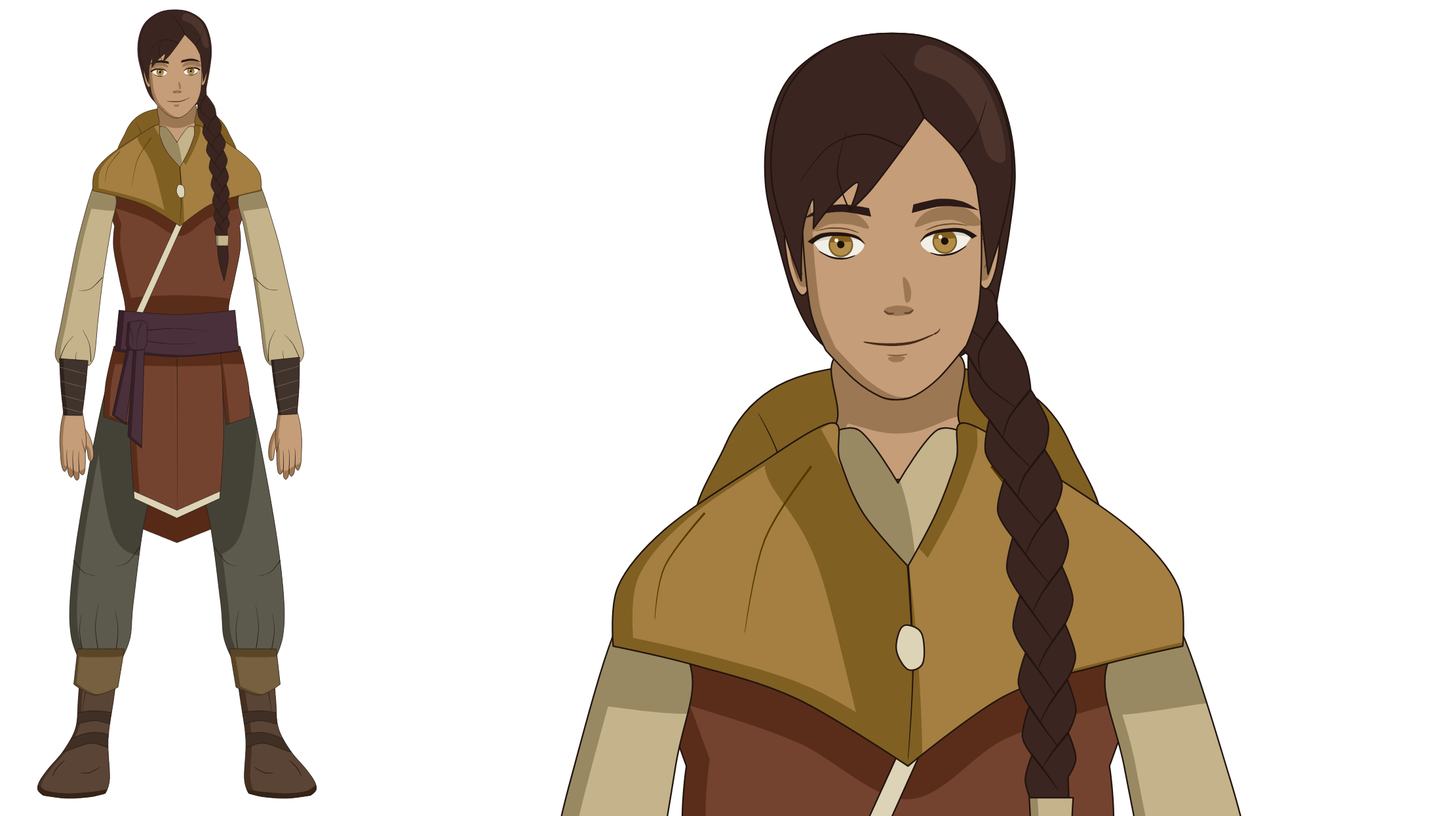
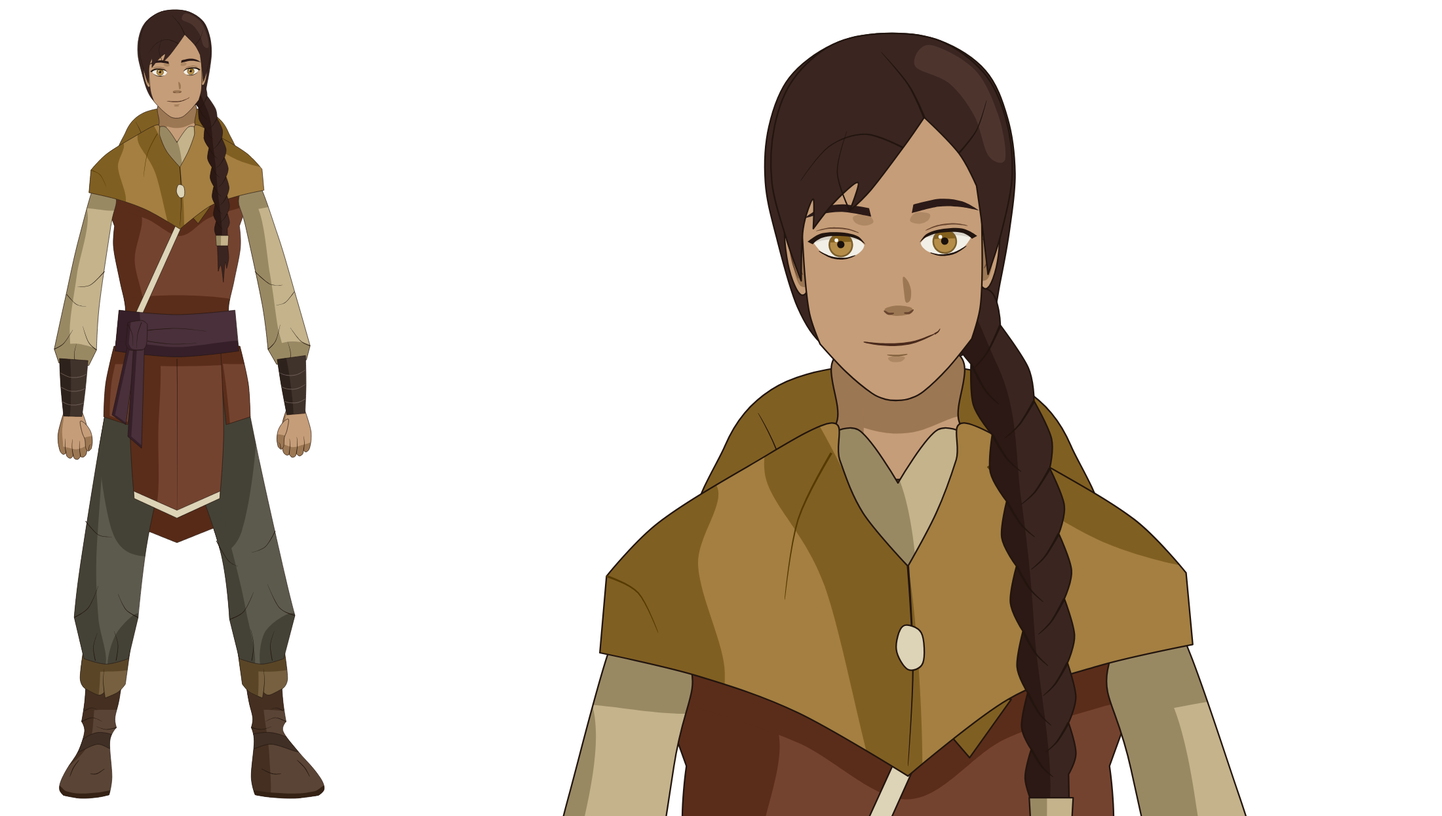
Original character: curled hands, angular garments, plane shadows, asymmetric pose
Hands hang as loose fists; mantle, sleeves and trousers use straight
runs and corners; shadows are designed planes instead of an offset rim;
legs, boots and arms are no longer mirror copies; jaw has a corner;
eye-socket planes are small; boots bunch at the ankle; braid lines stop
near the middle. Guide updated to match.

Claude-Session: https://claude.ai/code/session_01XqGJvDTZdXqVvM8gmmCaHx

diff --git a/character_refs/original/naori.js b/character_refs/original/naori.js
@@ -112,18 +112,19 @@ const NAORI = (() => {
   }
   function neck() {
     form([[-0.175, 0.86], [0.175, 0.86], [0.182, 1.06], [0.25, 1.22], [-0.25, 1.22], [-0.182, 1.06]], P.skin,
-      { cres: [0.035, 0], sh: [[[-0.3, 0.8], [0.3, 0.8], [0.3, 0.99], [0.15, 1.06], [0.03, 1.1], [-0.1, 1.085], [-0.3, 1.0]]] });
+      { sh: [[[-0.3, 0.8], [0.3, 0.8], [0.3, 0.99], [0.15, 1.06], [0.03, 1.1], [-0.1, 1.085], [-0.3, 1.0]], [[-0.3, 0.9], [-0.12, 0.9], [-0.13, 1.3], [-0.3, 1.3]]] });
     // collar of the under-tunic inside the mantle's opening
     form([[-0.235, 1.12, 1], [-0.12, 1.09], [0.0, 1.25, 1], [0.12, 1.09], [0.235, 1.12, 1], [0.03, 1.66, 1]], P.tunic, { sh: [[[-0.3, 1.0], [0.0, 1.23], [0.03, 1.75], [-0.3, 1.75]]] });
   }
   function head() {
     both(ear);
-    // face: wide across the cheekbones, a long nearly straight run down to a soft jaw corner, small rounded chin
-    const half = [[198.5, 10], [226, 12.5], [243, 29], [247.5, 58], [247, 92], [246, 120], [243.5, 143], [236.5, 162, 1], [221, 179], [208, 188], [198.5, 190]].map(hp);
-    form(sym(half), P.skin, { cres: [0.03, -0.006], sh: [
-      HP([[150, 96], [158, 88], [170, 86.5], [181, 90], [186, 97], [176, 94.5], [165, 94], [156, 97.5]]),          // eye sockets: the planes between brow and lid
-      HP([[247, 96], [239, 88], [227, 86.5], [216, 90], [211, 97], [221, 94.5], [232, 94], [241, 97.5]]),
-      HP([[194, 167.2], [198.5, 166.4], [203, 167.2], [201, 169.4], [196, 169.4]]) ] });                                  // under the lower lip
+    // face: wide across the cheekbones, a straight run down to a jaw corner below the ear, a second straight run to a small blunt chin
+    const half = [[198.5, 10], [226, 12.5], [243, 29], [247.5, 58], [247.2, 92], [246.4, 122], [244.6, 142], [239.5, 158.5, 1], [226, 174], [212.5, 186], [205, 189.6], [198.5, 190.4]].map(hp);
+    const soft = shade(P.skin, 0.55);
+    form(sym(half), P.skin, { over: [
+      { color: soft, pts: HP([[178, 90.2], [185.5, 89.4], [188.6, 93.6], [184, 95.4], [179, 93.8]]) },                  // eye sockets: a small plane under the inner end of each brow
+      { color: soft, pts: HP([[219, 90.2], [211.5, 89.4], [208.4, 93.6], [213, 95.4], [218, 93.8]]) },
+      { color: soft, pts: HP([[194, 167.2], [198.5, 166.4], [203, 167.2], [201, 169.4], [196, 169.4]]) } ] });          // under the lower lip
     face();
   }
   function face() {
@@ -165,45 +166,49 @@ const NAORI = (() => {
     tl(HP([[236, 58], [246, 46], [252, 30]]), 1.0 * K, P.ink, 'out');
     tl(HP([[176, 87], [170, 66], [176, 44]]), 0.9 * K, P.ink, 'out');
   }
-  function braid() {        // one silhouette with a zig-zag edge; the plaits are interior lines only
+  function braid() {        // one silhouette with a zig-zag edge; the plaits are short interior lines that stop near the middle
     const A = [[0.19, 0.66, 0.085], [0.325, 0.97, 0.105], [0.39, 1.24, 0.102], [0.425, 1.5, 0.096], [0.445, 1.76, 0.088], [0.455, 2.0, 0.08], [0.46, 2.2, 0.072]];
     const at = t => { const i = Math.min(A.length - 2, Math.floor(t)), f = t - i; return A[i].map((v, k) => v + (A[i + 1][k] - v) * f); };
-    const N = 9, Lf = [], Rt = [], inner = [];
+    const N = 8, Lf = [], Rt = [], inner = [];
     for (let i = 0; i < N; i++) { const t0 = i / N * (A.length - 1), t1 = (i + 0.5) / N * (A.length - 1), t2 = (i + 1) / N * (A.length - 1), a = at(t0), m = at(t1), b = at(t2);
-      Lf.push([a[0] - a[2] * 0.7, a[1], 1], [m[0] - m[2] * 1.02, m[1] + 0.01]);
-      Rt.push([a[0] + a[2] * 1.0, a[1] + 0.01], [m[0] + m[2] * 0.7, m[1], 1]);
-      inner.push([[a[0] - a[2] * 0.7, a[1]], [a[0] - a[2] * 0.1, a[1] + (m[1] - a[1]) * 0.9], [m[0] + m[2] * 0.3, m[1] + (b[1] - m[1]) * 0.6]]);
-      inner.push([[m[0] + m[2] * 0.7, m[1]], [m[0] + m[2] * 0.1, m[1] + (b[1] - m[1]) * 0.9], [b[0] - b[2] * 0.3, b[1] + (b[1] - m[1]) * 0.6]]); }
+      Lf.push([a[0] - a[2] * 0.72, a[1], 1], [m[0] - m[2] * 1.02, m[1] + 0.012]);
+      Rt.push([a[0] + a[2] * 1.0, a[1] + 0.012], [m[0] + m[2] * 0.72, m[1], 1]);
+      inner.push([[a[0] - a[2] * 0.72, a[1]], [a[0] - a[2] * 0.3, a[1] + (m[1] - a[1]) * 0.7], [a[0] + a[2] * 0.12, m[1] + (b[1] - m[1]) * 0.1]]);
+      inner.push([[m[0] + m[2] * 0.72, m[1]], [m[0] + m[2] * 0.3, m[1] + (b[1] - m[1]) * 0.7], [m[0] - m[2] * 0.12, b[1] + (b[1] - m[1]) * 0.1]]); }
     const e = at(A.length - 1);
-    form([[e[0] - 0.05, e[1] + 0.07, 1], [e[0] + 0.05, e[1] + 0.07, 1], [e[0] + 0.062, e[1] + 0.24], [e[0] + 0.02, e[1] + 0.46, 1], [e[0] - 0.035, e[1] + 0.25]], P.hair, {});      // loose end, to a point
-    form([...Lf, [e[0] - e[2] * 0.75, e[1] + 0.02, 1], [e[0] + e[2] * 0.75, e[1] + 0.02, 1], ...Rt.reverse()], P.hair, { inside: () => { for (const q of inner.slice(0, -1)) tl(q, 1.6 * LW, P.ink, 'out'); } });
-    form([[e[0] - 0.066, e[1] - 0.005, 1], [e[0] + 0.066, e[1] - 0.005, 1], [e[0] + 0.06, e[1] + 0.1, 1], [e[0] - 0.06, e[1] + 0.1, 1]], P.tie, { cres: [0.025, 0] });
+    form([[e[0] - 0.05, e[1] + 0.07, 1], [e[0] + 0.05, e[1] + 0.07, 1], [e[0] + 0.066, e[1] + 0.22], [e[0] + 0.045, e[1] + 0.33, 1], [e[0] + 0.03, e[1] + 0.27], [e[0] + 0.012, e[1] + 0.47, 1], [e[0] - 0.012, e[1] + 0.3], [e[0] - 0.04, e[1] + 0.36, 1], [e[0] - 0.045, e[1] + 0.2]], P.hair, {});      // loose end, in points
+    form([...Lf, [e[0] - e[2] * 0.75, e[1] + 0.02, 1], [e[0] + e[2] * 0.75, e[1] + 0.02, 1], ...Rt.reverse()], P.hair,
+      { sh: [[[0, 0.5], [0.3, 0.9], [0.37, 1.3], [0.41, 1.7], [0.43, 2.3], [0, 2.3]]], shadow: shade(P.hair, 0.9), inside: () => { for (const q of inner.slice(1, -1)) tl(q, 1.7 * LW, P.ink, 'out'); } });
+    form([[e[0] - 0.066, e[1] - 0.005, 1], [e[0] + 0.066, e[1] - 0.005, 1], [e[0] + 0.06, e[1] + 0.1, 1], [e[0] - 0.06, e[1] + 0.1, 1]], P.tie, { sh: [[[e[0] - 0.1, e[1] - 0.1], [e[0] - 0.02, e[1] - 0.1], [e[0] - 0.025, e[1] + 0.2], [e[0] - 0.1, e[1] + 0.2]]] });
   }
 
   /* =================================================================
-     HAND — one silhouette for the back of the hand and the four fingers (no seams across the
-     wrist or knuckles); the thumb is drawn first so the hand covers its root; fingers are
-     separated by tapering lines that fade out before the knuckles.
-     Local units: 1 = wrist to middle fingertip, +y down the hand, +x toward the thumb.
+     HAND — hanging at rest it is a loose fist: the back of the hand, the fingers curled under
+     and foreshortened, the thumb lying in front on the body side. One silhouette, no seams
+     across the wrist or knuckles; fingers are separated by tapering lines.
+     Local units: 1 = wrist to the lowest knuckle, +y down the hand, +x toward the thumb.
      ================================================================= */
   function hand(wx, wy, S, m, ang) {
     const keep = LW; LW = LW / S;
     g.save(); g.translate(wx, wy); g.rotate(ang || 0); g.scale(S * m, S);
-    const sk = P.skin, cr = [0.045 * m, 0];
-    form([[0.1, 0.2], [0.2, 0.3], [0.265, 0.46], [0.285, 0.62], [0.262, 0.72], [0.215, 0.7], [0.19, 0.56], [0.13, 0.45]], sk, { cres: cr });                       // thumb
-    form([[-0.135, 0, 1], [-0.18, 0.2], [-0.2, 0.42], [-0.195, 0.6], [-0.185, 0.76], [-0.15, 0.865], [-0.112, 0.845], [-0.098, 0.78, 1],
-      [-0.085, 0.9], [-0.05, 0.955], [-0.018, 0.925], [-0.012, 0.84, 1], [0.0, 0.95], [0.035, 1.0], [0.068, 0.965], [0.072, 0.85, 1], [0.088, 0.9], [0.122, 0.925], [0.15, 0.885],
-      [0.165, 0.75], [0.168, 0.6], [0.185, 0.42], [0.165, 0.2], [0.135, 0, 1]], sk,
-      { cres: cr, sh: [[[-0.3, 0.74], [-0.1, 0.8], [0.05, 0.88], [0.2, 0.83], [0.2, 1.1], [-0.3, 1.1]]] });
-    tl([[-0.098, 0.78], [-0.104, 0.66], [-0.098, 0.55]], 1.5 * LW, P.ink, 'out');
-    tl([[-0.012, 0.84], [-0.018, 0.69], [-0.01, 0.56]], 1.5 * LW, P.ink, 'out');
-    tl([[0.072, 0.85], [0.068, 0.7], [0.074, 0.58]], 1.5 * LW, P.ink, 'out');
-    tl([[0.168, 0.6], [0.14, 0.5], [0.12, 0.4]], 1.3 * LW, P.ink, 'out');             // fold where the thumb meets the hand
+    const sk = P.skin, lf = m > 0 ? -1 : 1;                 // lf: local x direction of the viewer's left (the shadow side)
+    form([[-0.2, 0, 1], [-0.27, 0.2], [-0.34, 0.45], [-0.345, 0.66, 1], [-0.31, 0.83], [-0.245, 0.9], [-0.185, 0.87, 1],
+      [-0.165, 0.95], [-0.095, 0.99], [-0.03, 0.94, 1], [-0.005, 1.0], [0.065, 1.02], [0.125, 0.955, 1], [0.15, 0.975], [0.205, 0.965], [0.255, 0.9],
+      [0.285, 0.74, 1], [0.3, 0.5], [0.275, 0.25], [0.2, 0, 1]], sk,
+      { sh: [[[-0.5, 0.7], [-0.2, 0.74], [0.05, 0.8], [0.4, 0.74], [0.4, 1.2], [-0.5, 1.2]], [[lf * 0.5, -0.1], [lf * 0.2, -0.1], [lf * 0.25, 0.4], [lf * 0.26, 0.8], [lf * 0.5, 0.8]]] });
+    tl([[-0.185, 0.87], [-0.2, 0.72], [-0.185, 0.56]], 1.5 * LW, P.ink, 'out');       // between the curled fingers, fading toward the knuckles
+    tl([[-0.03, 0.94], [-0.05, 0.76], [-0.035, 0.58]], 1.5 * LW, P.ink, 'out');
+    tl([[0.125, 0.955], [0.11, 0.78], [0.12, 0.62]], 1.5 * LW, P.ink, 'out');
+    // thumb, in front, pointing down along the index finger
+    form([[0.15, 0.2], [0.27, 0.27], [0.37, 0.44], [0.395, 0.64], [0.365, 0.8, 1], [0.3, 0.85], [0.245, 0.78], [0.235, 0.6], [0.18, 0.44]], sk,
+      { sh: [[[0.1, 0.62], [0.5, 0.56], [0.5, 1], [0.1, 1]]] });
+    tl([[0.31, 0.83], [0.325, 0.74], [0.36, 0.7]], 1.2 * LW, P.ink, 'out');           // thumbnail edge
     g.restore(); LW = keep;
   }
 
   /* =================================================================
-     BODY AND CLOTHES
+     BODY AND CLOTHES — contours are long near-straight runs that break at corners; each form
+     carries shadow planes (the viewer's-left side of the form, and under whatever overlaps it)
      ================================================================= */
   function hoodBack() {     // the hood, lying bunched behind the neck
     form([[-0.58, 1.44], [-0.52, 1.14], [-0.38, 0.97], [-0.15, 0.9], [0.15, 0.9], [0.38, 0.97], [0.52, 1.14], [0.58, 1.44], [0, 1.55]], shade(P.cowl), {});
@@ -212,40 +217,50 @@ const NAORI = (() => {
   function backPanel() {
     form([[-0.56, 3.4, 1], [0.56, 3.4, 1], [0.6, 5.08, 1], [0, 5.32, 1], [-0.6, 5.08, 1]], shade(P.vest, 1.15), {});
   }
-  function pants() {        // baggy, gathered into the boot cuffs
-    const R = [[0.62, 3.4, 1], [0.76, 3.9], [0.92, 4.7], [1.035, 5.4], [1.09, 5.95], [1.075, 6.28], [1.0, 6.5, 1], [0.56, 6.5, 1], [0.475, 6.28], [0.44, 5.9], [0.31, 5.0], [0.09, 4.42]];
-    form([...R, [0, 4.34, 1], ...mir(R)], P.pants, { cres: [0.075, -0.02], sh: [[[-0.7, 3.3], [0.7, 3.3], [0.66, 5.2], [0, 5.44], [-0.66, 5.2]]] });
-    both(s => {             // folds run up from the gather and in from the seams
-      fold(flip(s, [[0.62, 6.42], [0.6, 6.2], [0.63, 6.0]]), 1.5); fold(flip(s, [[0.8, 6.42], [0.83, 6.18], [0.8, 5.95]]), 1.5); fold(flip(s, [[0.96, 6.42], [0.99, 6.22], [0.97, 6.04]]), 1.5);
-      fold(flip(s, [[1.05, 5.5], [0.95, 5.62], [0.82, 5.66]]), 1.4); fold(flip(s, [[0.38, 5.36], [0.5, 5.52], [0.62, 5.56]]), 1.4);
-    });
+  function pants() {        // baggy trousers: straight runs to a corner where they blouse over the boot cuffs; the legs are not a mirror pair
+    const R = [[0.62, 3.4, 1], [0.84, 4.5], [1.1, 5.66], [1.2, 6.06, 1], [1.085, 6.5, 1], [0.86, 6.555], [0.635, 6.5, 1], [0.535, 6.1, 1], [0.44, 5.4], [0.1, 4.44]];
+    const L = [[-0.1, 4.44], [-0.3, 5.3], [-0.395, 6.08, 1], [-0.495, 6.5, 1], [-0.72, 6.555], [-0.945, 6.5, 1], [-1.045, 6.08, 1], [-0.99, 5.6], [-0.8, 4.4], [-0.62, 3.4, 1]];
+    form([...R, [0, 4.36, 1], ...L], P.pants, { sh: [
+      [[-0.7, 3.3], [0.7, 3.3], [0.66, 5.2], [0, 5.44], [-0.66, 5.2]],                                                   // cast by the tunic skirt
+      [[0.0, 4.3], [0.34, 4.6], [0.56, 5.4], [0.7, 6.0], [0.78, 6.6], [0.4, 6.7], [0.3, 5.4]],                            // the shadow side of each leg
+      [[-1.3, 3.3], [-0.72, 3.3], [-0.76, 4.5], [-0.82, 5.5], [-0.8, 6.08], [-0.75, 6.6], [-1.3, 6.6]],
+      [[0.9, 6.22], [1.21, 6.05], [1.12, 6.6], [0.86, 6.6]], [[-0.62, 6.25], [-0.38, 6.05], [-0.48, 6.6], [-0.7, 6.6]] ] });   // under the blouse
+    fold([[1.2, 6.06], [1.04, 5.98], [0.92, 5.74]], 1.6); fold([[0.535, 6.1], [0.68, 6.02], [0.78, 5.82]], 1.6);          // folds start at the corners and the gather
+    fold([[0.76, 6.52], [0.78, 6.36], [0.75, 6.2]], 1.4); fold([[0.97, 6.52], [0.95, 6.36], [0.99, 6.22]], 1.4);
+    fold([[1.0, 5.2], [0.9, 5.36], [0.76, 5.42]], 1.4); fold([[0.4, 5.3], [0.52, 5.5], [0.62, 5.56]], 1.3);
+    fold([[-1.045, 6.08], [-0.9, 5.98], [-0.8, 5.76]], 1.6); fold([[-0.395, 6.08], [-0.52, 6.0], [-0.6, 5.84]], 1.6);
+    fold([[-0.62, 6.52], [-0.6, 6.36], [-0.64, 6.22]], 1.4); fold([[-0.83, 6.52], [-0.85, 6.38], [-0.81, 6.24]], 1.4);
+    fold([[-0.93, 5.1], [-0.8, 5.24], [-0.66, 5.26]], 1.4);
   }
-  function boot(s) {        // soft boot seen turned outward: shaft, long foot, sole strip, wrap straps that follow the surface
-    const E = pts => flip(s, pts), sm = s > 0 ? 1 : 0.6;
-    const body = E([[0.585, 6.5, 1], [0.975, 6.5, 1], [1.005, 6.92], [1.03, 7.2], [1.15, 7.43], [1.31, 7.62], [1.4, 7.75], [1.415, 7.835], [1.36, 7.89, 1], [1.12, 7.92], [0.88, 7.905], [0.73, 7.87, 1], [0.685, 7.72], [0.7, 7.32], [0.645, 6.92]]);
-    form(body, P.boot, { cres: [0.06 * sm, -0.01], inside: () => {
-      g.fillStyle = shade(P.boot, 1.6); g.fill(shape(E([[0.6, 7.83], [0.88, 7.855], [1.12, 7.87], [1.32, 7.845], [1.45, 7.79], [1.6, 8], [0.6, 8]])));                 // sole
-      for (const b of [[[0.6, 7.07], [0.84, 7.03], [1.06, 7.07], [1.08, 7.17], [0.84, 7.13], [0.62, 7.17]], [[0.62, 7.3], [0.86, 7.25], [1.1, 7.33], [1.17, 7.45], [0.88, 7.36], [0.66, 7.41]]]) {
-        const q = shape(E(b)); g.fillStyle = P.strap; g.fill(q); g.strokeStyle = P.ink; g.lineWidth = LW; g.stroke(q); }
+  function boot(s, dx, ext) {   // soft boot: shaft, bunching at the ankle, long foot with a firm heel corner, thin sole strip, straps that follow the surface
+    const ax = 0.84, W = p => { const x = p[1] > 7.25 ? ax + (p[0] - ax) * ext : p[0]; return [s * x + dx, p[1], ...p.slice(2)]; }, E = pts => pts.map(W);
+    const body = E([[0.585, 6.5, 1], [0.975, 6.5, 1], [0.995, 6.9], [1.03, 7.14, 1], [1.0, 7.24], [1.15, 7.44], [1.31, 7.62], [1.4, 7.75], [1.415, 7.835], [1.36, 7.89, 1], [1.12, 7.92], [0.88, 7.91], [0.715, 7.885, 1], [0.675, 7.7], [0.705, 7.34], [0.675, 7.2, 1], [0.69, 7.1], [0.645, 6.9]]);
+    const lit = s > 0;      // shadow side = viewer's left: the inner side of this boot, the outer side of the other
+    form(body, P.boot, { sh: [lit ? E([[0.5, 6.4], [0.76, 6.4], [0.8, 7.0], [0.86, 7.5], [0.84, 8], [0.5, 8]]) : E([[1.2, 6.4], [0.86, 6.4], [0.9, 7.0], [1.0, 7.36], [1.3, 7.6], [1.6, 7.7], [1.6, 6.4]]),
+        E([[0.5, 6.4], [1.2, 6.4], [1.2, 6.96], [0.85, 7.02], [0.5, 6.94]])], inside: () => {
+      g.fillStyle = shade(P.boot, 1.7); g.fill(shape(E([[0.6, 7.845], [0.88, 7.862], [1.12, 7.872], [1.32, 7.848], [1.45, 7.795], [1.6, 8], [0.6, 8]])));              // sole
+      for (const b of [[[0.6, 7.3], [0.86, 7.25], [1.1, 7.33], [1.17, 7.45], [0.88, 7.37], [0.66, 7.42]]]) { const q = shape(E(b)); g.fillStyle = P.strap; g.fill(q); g.strokeStyle = P.ink; g.lineWidth = LW; g.stroke(q); }
     } });
-    fold(E([[0.93, 6.84], [0.95, 6.95], [0.965, 7.05]]), 1.2);
-    tl(E([[1.14, 7.53], [1.22, 7.61], [1.27, 7.7]]), 1.5 * LW); tl(E([[0.78, 7.6], [0.89, 7.66], [0.98, 7.66]]), 1.4 * LW);
-    // turned-down cuff: drawn after the trousers, which tuck into it
-    form(E([[0.535, 6.4, 1], [1.01, 6.4, 1], [1.05, 6.76, 1], [0.84, 6.87], [0.6, 6.79, 1]]), P.cuff, { cres: [0.045 * sm, -0.01], sh: [E([[0.5, 6.35], [1.1, 6.35], [1.1, 6.47], [0.5, 6.47]])] });
+    fold(E([[1.03, 7.14], [0.92, 7.1], [0.82, 7.14]]), 1.5); fold(E([[0.675, 7.2], [0.78, 7.22], [0.88, 7.19]]), 1.4); fold(E([[1.0, 7.03], [0.93, 7.0], [0.87, 7.02]]), 1.2);     // ankle bunching
+    tl(E([[1.14, 7.53], [1.22, 7.61], [1.27, 7.7]]), 1.5 * LW); tl(E([[0.78, 7.62], [0.89, 7.67], [0.98, 7.67]]), 1.4 * LW);
+    // turned-down cuff with a split at the front
+    form(E([[0.535, 6.4, 1], [1.01, 6.4, 1], [1.045, 6.7], [1.0, 6.8, 1], [0.86, 6.87], [0.8, 6.84, 1], [0.79, 6.9, 1], [0.66, 6.84], [0.585, 6.76, 1]]), P.cuff,
+      { sh: [lit ? E([[0.4, 6.3], [0.7, 6.3], [0.72, 7], [0.4, 7]]) : E([[1.1, 6.3], [0.86, 6.3], [0.88, 7], [1.1, 7]]), E([[0.5, 6.35], [1.1, 6.35], [1.1, 6.6], [0.5, 6.6]])] });
+    tl(E([[0.8, 6.84], [0.81, 6.72], [0.8, 6.6]]), 1.3 * LW, P.ink, 'out');
   }
   function vest() {
     const half = [[0, 1.3], [0.17, 1.29], [0.5, 1.44], [0.72, 1.575], [0.775, 1.73], [0.69, 1.95], [0.635, 2.1, 1], [0.645, 2.32], [0.58, 2.66], [0.525, 2.93], [0.55, 3.15], [0.6, 3.38, 1], [0, 3.42]];
-    form(sym(half), P.vest, { cres: [0.07, -0.02], sh: [[[-0.9, 1.2], [0.9, 1.2], [0.9, 1.84], [0.62, 1.92], [0.32, 2.02], [0.03, 2.2], [-0.3, 2.03], [-0.62, 1.92], [-0.9, 1.84]], [[-0.7, 2.88], [0.7, 2.88], [0.7, 3.5], [-0.7, 3.5]]] });
+    form(sym(half), P.vest, { sh: [[[-0.9, 1.8], [-0.38, 1.95], [-0.43, 2.45], [-0.36, 3.0], [-0.9, 3.0]], [[-0.9, 1.2], [0.9, 1.2], [0.9, 1.84], [0.62, 1.92], [0.32, 2.02], [0.03, 2.2], [-0.3, 2.03], [-0.62, 1.92], [-0.9, 1.84]], [[-0.7, 2.88], [0.7, 2.88], [0.7, 3.5], [-0.7, 3.5]]] });
     form([[0.12, 1.8, 1], [0.185, 1.8, 1], [-0.35, 2.99, 1], [-0.42, 2.985, 1]], P.trim, {});      // trimmed edge of the upper panel
   }
   function skirt() {
     both(s => form(flip(s, [[0.4, 3.34, 1], [0.64, 3.32, 1], [0.725, 3.7], [0.745, 4.04, 1], [0.5, 4.12, 1], [0.455, 3.7]]), P.vest, { cres: [s > 0 ? 0.04 : 0.06, -0.01], sh: [flip(s, [[0.3, 3.2], [0.9, 3.2], [0.9, 3.47], [0.3, 3.47]])] }));
-    form([[-0.445, 3.36, 1], [0.445, 3.36, 1], [0.475, 4.2], [0.435, 4.87, 1], [0, 5.07, 1], [-0.435, 4.87, 1], [-0.475, 4.2]], P.vest, { cres: [0.06, -0.01], sh: [[[-0.6, 3.3], [0.6, 3.3], [0.6, 3.5], [-0.6, 3.5]]] });
+    form([[-0.445, 3.36, 1], [0.445, 3.36, 1], [0.475, 4.2], [0.435, 4.87, 1], [0, 5.07, 1], [-0.435, 4.87, 1], [-0.475, 4.2]], P.vest, { sh: [[[-0.6, 3.3], [-0.2, 3.3], [-0.19, 4.2], [-0.23, 5.0], [-0.6, 5.0]], [[-0.6, 3.3], [0.6, 3.3], [0.6, 3.5], [-0.6, 3.5]]] });
     form([[-0.435, 4.87, 1], [0, 5.07, 1], [0.435, 4.87, 1], [0.44, 4.795, 1], [0, 4.99, 1], [-0.44, 4.795, 1]], P.trim, {});
     fold([[0, 3.45], [0.005, 4.2], [0, 4.99]], 1.2);
   }
   function sash() {
-    form([[-0.59, 2.955, 1], [0, 3.0], [0.59, 2.955, 1], [0.63, 3.37, 1], [0, 3.43], [-0.63, 3.37, 1]], P.sash, { cres: [0.06, -0.02] });
+    form([[-0.59, 2.955, 1], [0, 3.0], [0.59, 2.955, 1], [0.63, 3.37, 1], [0, 3.43], [-0.63, 3.37, 1]], P.sash, { sh: [[[-0.7, 2.9], [-0.4, 2.9], [-0.42, 3.5], [-0.7, 3.5]], [[-0.7, 3.27], [0, 3.33], [0.7, 3.27], [0.7, 3.5], [-0.7, 3.5]]] });
     // hanging ends first, then the knot that pinches them
     form([[-0.5, 3.3, 1], [-0.41, 3.3, 1], [-0.52, 4.12, 1], [-0.66, 4.02, 1]], P.sash, { cres: [0.03, 0] });
     form([[-0.44, 3.3, 1], [-0.33, 3.3, 1], [-0.36, 4.36, 1], [-0.5, 4.24, 1]], P.sash, { cres: [0.035, 0] });
@@ -253,31 +268,37 @@ const NAORI = (() => {
     fold([[-0.36, 3.08], [-0.4, 3.2], [-0.41, 3.34]], 1.3); fold([[-0.5, 3.1], [-0.455, 3.2], [-0.45, 3.32]], 1.2);
     fold([[-0.3, 3.16], [0.0, 3.14], [0.3, 3.17]], 1.3); fold([[-0.3, 3.27], [-0.05, 3.3], [0.2, 3.29]], 1.2);
   }
-  function arm(s) {         // loose sleeve gathered into a wrapped forearm; hand hanging at mid-thigh
-    const E = pts => flip(s, pts), sm = s > 0 ? 0.6 : 1;
-    g.save(); g.translate(s * 0.78, 1.7); g.rotate(s > 0 ? -0.05 : 0.02); g.translate(-s * 0.78, -1.7);
-    hand(s * 1.012, 3.99, 0.7, -s, s * 0.04);
-    form(E([[0.8, 1.6], [0.975, 2.15], [1.09, 2.75], [1.155, 3.12], [1.205, 3.4], [1.165, 3.5, 1], [0.86, 3.52, 1], [0.805, 3.42], [0.775, 3.05], [0.73, 2.6], [0.66, 2.1], [0.62, 1.8]]), P.tunic,
-      { cres: [0.055 * sm, -0.01], sh: [E([[0.5, 1.5], [1.3, 1.5], [1.3, 1.84], [0.9, 1.92], [0.5, 1.9]])] });
-    fold(E([[1.16, 3.47], [1.1, 3.32], [1.02, 3.22]]), 1.5); fold(E([[0.84, 3.48], [0.86, 3.3], [0.93, 3.16]]), 1.5); fold(E([[1.0, 3.5], [0.99, 3.38]]), 1.2);
-    fold(E([[0.74, 2.62], [0.86, 2.74], [0.98, 2.76]]), 1.4);
-    form(E([[0.87, 3.47, 1], [1.16, 3.455, 1], [1.14, 3.75], [1.105, 4.03, 1], [0.92, 4.03, 1], [0.89, 3.75]]), P.wrap, { cres: [0.04 * sm, 0], inside: () => {
-      for (const y of [3.58, 3.72, 3.86, 3.98]) tl(E([[0.85, y + 0.035], [1.0, y], [1.2, y - 0.05]]), 1.4 * LW, shade(P.wrap, -2.4)); } });
+  function arm(s, rot, hAng) {   // loose sleeve gathered into a wrapped forearm; the hand hangs as a loose fist at mid-thigh
+    const E = pts => flip(s, pts), lit = s > 0;
+    g.save(); g.translate(s * 0.78, 1.7); g.rotate(rot); g.translate(-s * 0.78, -1.7);
+    hand(s * 1.012, 4.0, 0.47, -s, hAng);
+    form(E([[0.8, 1.6], [0.98, 2.2], [1.115, 2.85], [1.215, 3.36, 1], [1.165, 3.5, 1], [0.86, 3.52, 1], [0.785, 3.36, 1], [0.765, 2.9], [0.665, 2.1], [0.62, 1.8]]), P.tunic,
+      { sh: [E([[0.5, 1.5], [1.3, 1.5], [1.3, 1.84], [0.9, 1.92], [0.5, 1.9]]),
+        lit ? E([[0.5, 1.6], [0.8, 1.9], [0.87, 2.6], [0.9, 3.1], [0.93, 3.6], [0.5, 3.6]]) : E([[1.4, 1.6], [0.92, 1.9], [1.0, 2.6], [1.06, 3.1], [1.07, 3.6], [1.4, 3.6]]),
+        E([[0.7, 3.4], [1.0, 3.3], [1.25, 3.38], [1.25, 3.6], [0.7, 3.6]])] });
+    fold(E([[1.215, 3.36], [1.12, 3.3], [1.03, 3.16]]), 1.6); fold(E([[0.785, 3.36], [0.87, 3.28], [0.93, 3.12]]), 1.5); fold(E([[1.0, 3.5], [1.01, 3.4], [0.99, 3.3]]), 1.2);
+    fold(E([[0.72, 2.56], [0.86, 2.7], [0.99, 2.72]]), 1.4); fold(E([[1.1, 2.8], [1.0, 2.9], [0.9, 2.92]]), 1.2);
+    form(E([[0.87, 3.47, 1], [1.16, 3.455, 1], [1.14, 3.75], [1.105, 4.04, 1], [0.92, 4.04, 1], [0.89, 3.75]]), P.wrap,
+      { sh: [lit ? E([[0.8, 3.4], [0.95, 3.4], [0.98, 4.1], [0.8, 4.1]]) : E([[1.2, 3.4], [1.06, 3.4], [1.05, 4.1], [1.2, 4.1]])], inside: () => {
+        for (const y of [3.6, 3.74, 3.88]) tl(E([[0.84, y - 0.02], [0.94, y + 0.035], [1.06, y + 0.04], [1.2, y - 0.03]]), 1.5 * LW, shade(P.wrap, -2.4)); } });   // wraps curve round the forearm
     g.restore();
   }
-  function mantle() {       // hooded mantle: two front flaps crossing to a point
-    form([[-0.2, 1.07], [-0.44, 1.21], [-0.7, 1.39], [-0.84, 1.56], [-0.855, 1.74, 1], [-0.6, 1.8], [-0.3, 1.9], [0.03, 2.1, 1], [0.32, 1.89], [0.6, 1.8], [0.855, 1.74, 1], [0.84, 1.56], [0.7, 1.39], [0.44, 1.21], [0.2, 1.07],
-      [0.175, 1.18], [0.115, 1.34], [0.03, 1.5, 1], [-0.105, 1.34], [-0.175, 1.18]], P.cowl, { cres: [0.06, -0.025], sh: [[[-0.3, 1.0], [-0.105, 1.32], [0.03, 1.5], [0.07, 2.2], [-0.05, 2.2], [-0.24, 1.5], [-0.4, 1.2]]] });
-    tl([[0.03, 1.5], [0.045, 1.8], [0.03, 2.08]], 1.6 * LW, P.ink, 'out');                // where the flaps overlap
+  function mantle() {       // hooded mantle: straight shoulder lines to a corner, a short straight drop, hems running in to a point; the viewer's-left flap lies on top
+    form([[0.03, 1.86, 1], [0.34, 1.9, 1], [0.215, 2.075, 1]], shade(P.cowl), {});                                         // corner of the under flap showing below the hem
+    form([[-0.2, 1.07], [-0.45, 1.2], [-0.72, 1.37], [-0.875, 1.53, 1], [-0.895, 1.76, 1], [-0.6, 1.83], [-0.3, 1.94], [0.03, 2.13, 1], [0.33, 1.9], [0.6, 1.8], [0.885, 1.735, 1], [0.865, 1.52, 1], [0.71, 1.36], [0.45, 1.2], [0.2, 1.07],
+      [0.175, 1.18], [0.115, 1.34], [0.03, 1.5, 1], [-0.105, 1.34], [-0.175, 1.18]], P.cowl, { sh: [
+      [[-0.3, 1.0], [-0.105, 1.32], [0.03, 1.5], [0.07, 2.2], [-0.05, 2.2], [-0.22, 1.56], [-0.4, 1.22]],                    // inside the opening and under the top flap's edge
+      [[-1, 1.2], [-0.56, 1.24], [-0.6, 1.5], [-0.52, 1.82], [-0.6, 2], [-1, 2]],                                             // the shoulder turning away from the light
+      [[0.42, 1.14], [0.76, 1.36], [0.9, 1.5], [0.6, 1.42], [0.3, 1.22]] ] });                                                // cast by the hood's edge
+    tl([[0.03, 1.5], [0.045, 1.8], [0.03, 2.1]], 1.6 * LW, P.ink, 'out');                // where the flaps overlap
     const seam = shade(P.cowl, 2.2);                                                     // gathers toward the collar, in the cloth's own dark
-    tl([[-0.26, 1.2], [-0.4, 1.42], [-0.46, 1.7]], 1.6 * LW, seam, 'out'); tl([[0.28, 1.2], [0.44, 1.44], [0.5, 1.7]], 1.6 * LW, seam, 'out'); tl([[-0.58, 1.34], [-0.7, 1.5], [-0.73, 1.66]], 1.4 * LW, seam, 'out');
+    tl([[-0.2, 1.16], [-0.3, 1.36], [-0.34, 1.6]], 1.6 * LW, seam, 'out'); tl([[0.27, 1.2], [0.42, 1.42], [0.47, 1.66]], 1.6 * LW, seam, 'out'); tl([[-0.875, 1.53], [-0.78, 1.58], [-0.72, 1.7]], 1.5 * LW, seam, 'out');
     form([[0.015, 1.68], [0.07, 1.7], [0.075, 1.79], [0.03, 1.81], [-0.005, 1.75]], P.trim, {});   // toggle
   }
-
   function draw(ctx, o = {}) {
     g = ctx; LW = o.lineWidth || 0.0045;
     const tilt = fn => { g.save(); g.translate(0, 1.0); g.rotate(-0.035); g.translate(0, -1.0); fn(); g.restore(); };
-    tilt(hairBack); hoodBack(); backPanel(); pants(); both(boot); vest(); skirt(); sash(); both(arm); neck(); mantle(); braid(); tilt(() => { head(); hairFront(); });
+    tilt(hairBack); hoodBack(); backPanel(); boot(1, 0.08, 1); boot(-1, 0.06, 0.72); pants(); vest(); skirt(); sash(); arm(-1, 0.02, -0.06); arm(1, -0.085, 0.1); neck(); mantle(); braid(); tilt(() => { head(); hairFront(); });
   }
   return { draw, P, HEIGHT, shade };
 })();

diff --git a/character_refs/DRAWING_GUIDE.md b/character_refs/DRAWING_GUIDE.md
@@ -285,6 +285,9 @@ What this shows:
 
 ### 4.4 Hands and feet
 
+- A hand hanging at rest is a loose fist: the fingers curl under and are foreshortened, and the
+  thumb lies in front on the body side. It is about as wide as it is long. Fingers never hang
+  straight at full length (Korra images 09 and 11, Mako image 06).
 - A hand is one silhouette for the back of the hand and the fingers. There is no line across the
   wrist or the knuckles; a cuff or sleeve edge covers the wrist.
 - Fingers are always distinct. At body-sheet size they show as separate fingertips with short lines
@@ -683,7 +686,10 @@ What was wrong, and what fixed it:
 | Shapes invented from proportions: an egg for the head, tubes for arms, ovals for the braid | Contours have a specific rhythm: long near-straight runs, a few corners | Head outline, eyes, ears, hand and boot were read off the reference images and then varied |
 | Left and right mirrored exactly | Nothing is mirror-symmetric: hair parts off-centre, the gaze is off-axis, one mouth corner lifts | Off-centre part and fringe, shifted irises, asymmetric mouth, slightly different arm angles |
 | Every line a uniform black stroke | Hairline outlines; interior lines taper; face lines are brown | Outlines stroked thin; folds, strands and face lines drawn as tapering filled slivers |
-| Hands as stacked blocks with seams, no fingers | One silhouette, distinct fingers | One hand path with fingertips; tapering lines between fingers |
+| Hands as stacked blocks with seams, then as flat hands with straight dangling fingers | One silhouette; at rest a loose fist with the fingers curled under | One path for the fist; tapering lines between the fingers; thumb in front |
+| Garments as smooth convex curves (a pillow-like mantle, tube trousers) | Long near-straight runs that break at corners | Mantle, sleeves and trousers redrawn with straight runs and sharp corners |
+| Shadows as a rim offset from the outline | Flat planes: the side turned from the light, and under overlaps | Each form given designed shadow planes |
+| A smooth U-shaped jaw | A corner below the ear, then a straight run to the chin (soft on Korra and Kuvira, absent on Asami) | Jaw redrawn with a corner |
 | Ears as handles on the sides of the head | C-shaped rim with inner folds, tucked behind the jaw | Redrawn from the Bolin and Mako ears |
 | Nose as a bridge line plus a blob | Shadow shapes without outline | Bridge plane, under-tip wedge, nostril marks |
 | Braid as a string of outlined beads | Hair is one mass | One zig-zag silhouette; the plaits are interior lines |
@@ -692,9 +698,9 @@ What was wrong, and what fixed it:
 The measurements in this guide say where things go and what colour they are. They do not say what
 the contours look like. That has to come from the reference shapes themselves.
 
-What still separates the example from a show frame: the body is a straight-on, evenly weighted
-stand; the cloth has fewer and plainer folds; and the shadow shapes are simpler than the designed
-planes in the close-ups.
+What still separates the example from a show frame: the pose is only slightly asymmetric (one arm
+out, one foot turned further) with no real weight shift; the cloth has fewer and plainer folds;
+the fists are simple next to Kuvira's hands; and her braid has no reference to be checked against.
 
 ## 10. Where the current generators depart from the references
 
